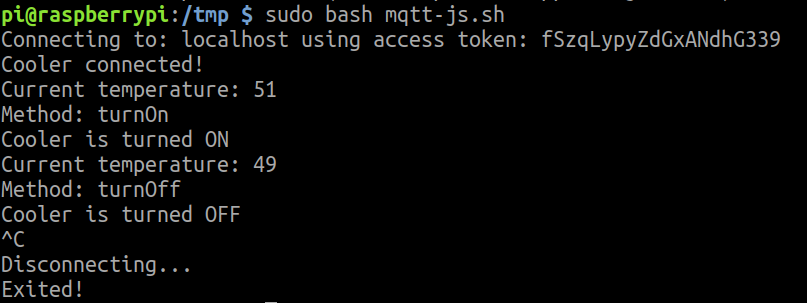
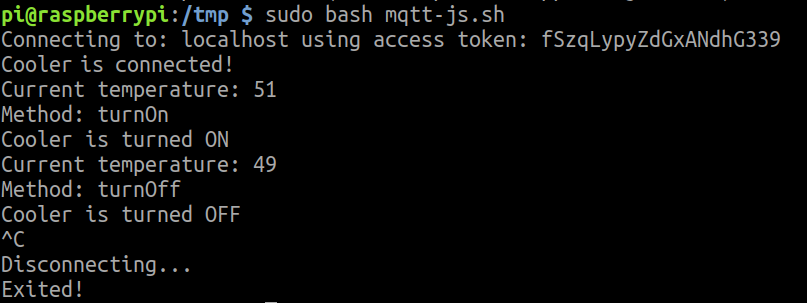
Updated use case data filtering and manage alarms

Changed region(s): [[0.0929, 0.1782, 0.3098, 0.2376]]

diff --git a/docs/edge/use-cases/resources/manage-alarms-rpc-requests/cooler.js b/docs/edge/use-cases/resources/manage-alarms-rpc-requests/cooler.js
@@ -8,7 +8,7 @@ var client  = mqtt.connect('mqtt://'+ process.env.THINGSBOARD_HOST,{
 
 client.on('connect', function () {
     client.subscribe('v1/devices/me/rpc/request/+');
-    console.log('Cooler connected!');
+    console.log('Cooler is connected!');
 });
 
 //RPC message handling sent to the client

diff --git a/docs/edge/use-cases/resources/data-filtering-traffic-reduce/mqtt_generator_fuel.py b/docs/edge/use-cases/resources/data-filtering-traffic-reduce/mqtt_generator_fuel.py
@@ -6,14 +6,14 @@ import time
 THINGSBOARD_HOST = '127.0.0.1' # REPLACE with your ThingsBoard Edge server installation IP address or hostname
 ACCESS_TOKEN = 'mezToQ0lFYFSTI5yhix4' # REPLACE with your device access token
 
-# The callback for when the client receives a CONNACK response from th$
+# The callback for when the client receives a CONNACK response from the server
 def on_connect(client, userdata, rc, *extra_params):
     # print('Connected with result code ' + str(rc))
     # Subscribing to receive RPC requests
     client.subscribe('v1/devices/me/rpc/request/+')
     # Sending current telemetry
     client.publish('v1/devices/me/telemetry', get_telemetry(), 1)
-    # Log device name and current value
+    # Log device current value
     print(get_telemetry())
 
 def get_telemetry():
@@ -28,7 +28,7 @@ while(True):
     client.on_connect = on_connect
     # Set access token
     client.username_pw_set(ACCESS_TOKEN)
-    # Connect to ThingsBoard using default MQTT port and 60 seconds keepal$
+    # Connect to ThingsBoard using default MQTT port and 60 seconds keep alive
     client.connect(THINGSBOARD_HOST, 1883, 60)
     try:
         # Set timeout 1 second

diff --git a/docs/edge/use-cases/resources/data-filtering-traffic-reduce/mqtt_generator_gps.py b/docs/edge/use-cases/resources/data-filtering-traffic-reduce/mqtt_generator_gps.py
@@ -6,14 +6,14 @@ import time
 THINGSBOARD_HOST = '127.0.0.1' # REPLACE with your ThingsBoard Edge server installation IP address or hostname
 ACCESS_TOKEN = '08loDim39tsY9eudikQz' # REPLACE with your device access token
 
-# The callback for when the client receives a CONNACK response from th$
+# The callback for when the client receives a CONNACK response from the server
 def on_connect(client, userdata, rc, *extra_params):
     # print('Connected with result code ' + str(rc))
     # Subscribing to receive RPC requests
     client.subscribe('v1/devices/me/rpc/request/+')
     # Sending current telemetry
     client.publish('v1/devices/me/telemetry', get_telemetry(), 1)
-    # Log device name and current value
+    # Log device current value
     print(get_telemetry())
 
 def get_telemetry():
@@ -28,7 +28,7 @@ while(True):
     client.on_connect = on_connect
     # Set access token
     client.username_pw_set(ACCESS_TOKEN)
-    # Connect to ThingsBoard using default MQTT port and 60 seconds keepal$
+    # Connect to ThingsBoard using default MQTT port and 60 seconds keep alive
     client.connect(THINGSBOARD_HOST, 1883, 60)
     try:
         # Set timeout 1 second
